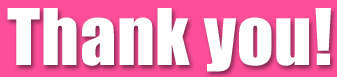
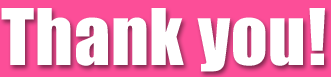
trimmed the left side of the thank you title

diff --git a/thankyou.php b/thankyou.php
@@ -41,8 +41,7 @@
     
     <div id="thankyou-main" role="main">
 		<div id="content">
-		<img src="img/ThankYouTitle.png"/><br/>
-		<img src="img/poweredby.png"/>
+		<img src="img/ThankYouTitle.png"/>
 		<p>Your support is very much appreciated. If you can't make it to cheer Andy check <a href="/">back here</a> to watch his progess.
 		</p>
 		<p>
